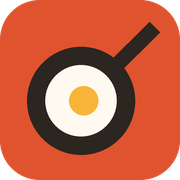
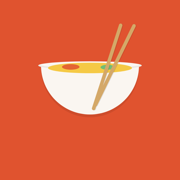
生成项目图标 + 右上角添加 GitHub 链接
图标：
- 用 HTML 设计碗+筷子+蒸汽的菜谱图标，Chrome headless 截图生成
- 替换 icon-512.png / icon-192.png / apple-touch-icon.png
- 保留 scripts/icon.html 作为图标源文件

GitHub 链接：
- 新增 components/GitHubLink.tsx 可复用组件
- 菜谱页、食材页、管理页 header 右上角均添加 GitHub 图标
- 点击跳转仓库 https://github.com/ymstar/personal_cookbook

diff --git a/scripts/icon.html b/scripts/icon.html
@@ -1,0 +1,136 @@
+<!DOCTYPE html>
+<html>
+<head>
+<meta charset="utf-8">
+<style>
+  * { margin: 0; padding: 0; box-sizing: border-box; }
+  html, body { width: 512px; height: 512px; overflow: hidden; }
+  body {
+    display: flex;
+    align-items: center;
+    justify-content: center;
+    background: #e0532f;
+  }
+  .icon {
+    width: 512px;
+    height: 512px;
+    position: relative;
+    display: flex;
+    align-items: center;
+    justify-content: center;
+  }
+  /* Bowl */
+  .bowl {
+    width: 280px;
+    height: 140px;
+    background: #faf6f1;
+    border-radius: 0 0 140px 140px;
+    position: relative;
+    z-index: 2;
+    box-shadow: 0 8px 0 rgba(0,0,0,0.08);
+  }
+  /* Bowl rim */
+  .bowl::before {
+    content: '';
+    position: absolute;
+    top: -12px;
+    left: -8px;
+    right: -8px;
+    height: 24px;
+    background: #faf6f1;
+    border-radius: 50%;
+    box-shadow: inset 0 -4px 0 rgba(0,0,0,0.06);
+  }
+  /* Food in bowl */
+  .food {
+    position: absolute;
+    top: -8px;
+    left: 50%;
+    transform: translateX(-50%);
+    width: 240px;
+    height: 30px;
+    background: #f5c945;
+    border-radius: 50%;
+    z-index: 3;
+  }
+  .food::before {
+    content: '';
+    position: absolute;
+    top: 4px;
+    left: 40px;
+    width: 50px;
+    height: 16px;
+    background: #e0532f;
+    border-radius: 50%;
+    opacity: 0.85;
+  }
+  .food::after {
+    content: '';
+    position: absolute;
+    top: 6px;
+    right: 50px;
+    width: 40px;
+    height: 14px;
+    background: #5cbb7e;
+    border-radius: 50%;
+    opacity: 0.85;
+  }
+  /* Chopsticks */
+  .chopstick-1 {
+    position: absolute;
+    width: 10px;
+    height: 260px;
+    background: #d4a868;
+    border-radius: 5px;
+    transform: rotate(18deg);
+    top: 60px;
+    left: 300px;
+    z-index: 4;
+    box-shadow: 2px 0 0 rgba(0,0,0,0.1);
+  }
+  .chopstick-2 {
+    position: absolute;
+    width: 10px;
+    height: 260px;
+    background: #d4a868;
+    border-radius: 5px;
+    transform: rotate(26deg);
+    top: 55px;
+    left: 322px;
+    z-index: 4;
+    box-shadow: 2px 0 0 rgba(0,0,0,0.1);
+  }
+  /* Steam */
+  .steam {
+    position: absolute;
+    bottom: 200px;
+    left: 50%;
+    transform: translateX(-50%);
+    z-index: 1;
+  }
+  .steam span {
+    display: inline-block;
+    width: 16px;
+    height: 16px;
+    background: rgba(255,255,255,0.35);
+    border-radius: 50%;
+    margin: 0 10px;
+    animation: rise 2s infinite ease-in-out;
+  }
+  .steam span:nth-child(2) { animation-delay: 0.3s; }
+  .steam span:nth-child(3) { animation-delay: 0.6s; }
+  @keyframes rise {
+    0%, 100% { transform: translateY(0); opacity: 0.35; }
+    50% { transform: translateY(-20px); opacity: 0.1; }
+  }
+</style>
+</head>
+<body>
+<div class="icon">
+  <div class="steam"><span></span><span></span><span></span></div>
+  <div class="bowl"><div class="food"></div></div>
+  <div class="chopstick-1"></div>
+  <div class="chopstick-2"></div>
+</div>
+</body>
+</html>

diff --git a/components/GitHubLink.tsx b/components/GitHubLink.tsx
@@ -1,0 +1,27 @@
+/** 右上角 GitHub 图标链接 */
+export function GitHubLink() {
+  return (
+    <a
+      href="https://github.com/ymstar/personal_cookbook"
+      target="_blank"
+      rel="noopener noreferrer"
+      aria-label="GitHub 仓库"
+      className="flex items-center justify-center rounded-lg transition-opacity hover:opacity-70"
+      style={{
+        width: "32px",
+        height: "32px",
+        color: "var(--muted)",
+      }}
+    >
+      <svg
+        width="20"
+        height="20"
+        viewBox="0 0 24 24"
+        fill="currentColor"
+        aria-hidden="true"
+      >
+        <path d="M12 2C6.477 2 2 6.484 2 12.017c0 4.425 2.865 8.18 6.839 9.504.5.092.682-.217.682-.483 0-.237-.008-.868-.013-1.703-2.782.605-3.369-1.343-3.369-1.343-.454-1.158-1.11-1.466-1.11-1.466-.908-.62.069-.608.069-.608 1.003.07 1.531 1.032 1.531 1.032.892 1.53 2.341 1.088 2.91.832.092-.647.35-1.088.636-1.338-2.22-.253-4.555-1.113-4.555-4.951 0-1.093.39-1.988 1.029-2.688-.103-.253-.446-1.272.098-2.65 0 0 .84-.27 2.75 1.026A9.564 9.564 0 0112 6.844c.85 0 1.705.115 2.504.337 1.909-1.296 2.747-1.026 2.747-1.026.546 1.379.202 2.398.1 2.651.64.7 1.028 1.595 1.028 2.688 0 3.848-2.339 4.695-4.566 4.943.359.309.678.92.678 1.855 0 1.338-.012 2.419-.012 2.747 0 .268.18.58.688.482A10.019 10.019 0 0022 12.017C22 6.484 17.522 2 12 2z" />
+      </svg>
+    </a>
+  );
+}

diff --git a/app/admin/layout.tsx b/app/admin/layout.tsx
@@ -1,6 +1,7 @@
 import { isAuthenticated } from "@/lib/auth";
 import { LoginForm } from "@/components/LoginForm";
 import { BottomNav } from "@/components/BottomNav";
+import { GitHubLink } from "@/components/GitHubLink";
 
 export const dynamic = "force-dynamic";
 
@@ -36,13 +37,16 @@ export default async function AdminLayout({
         <h1 className="text-lg font-bold" style={{ color: "var(--ink)" }}>
           ✏ 管理
         </h1>
-        <a
-          href="/admin/ingredients"
-          className="rounded-lg px-2.5 py-1 text-sm"
-          style={{ color: "var(--muted)" }}
-        >
-          食材管理
-        </a>
+        <div className="flex items-center gap-2">
+          <a
+            href="/admin/ingredients"
+            className="rounded-lg px-2.5 py-1 text-sm"
+            style={{ color: "var(--muted)" }}
+          >
+            食材管理
+          </a>
+          <GitHubLink />
+        </div>
       </header>
       <main
         className="mx-auto"

diff --git a/app/page.tsx b/app/page.tsx
@@ -2,6 +2,7 @@ import { getRecipes } from "@/lib/db";
 import type { Recipe } from "@/lib/types";
 import { RecipeList } from "@/components/RecipeList";
 import { BottomNav } from "@/components/BottomNav";
+import { GitHubLink } from "@/components/GitHubLink";
 
 export const dynamic = "force-dynamic";
 
@@ -29,6 +30,7 @@ export default async function HomePage() {
         <h1 className="text-lg font-bold" style={{ color: "var(--ink)" }}>
           🍳 小沙的个人菜谱
         </h1>
+        <GitHubLink />
       </header>
 
       <main

diff --git a/app/ingredients/page.tsx b/app/ingredients/page.tsx
@@ -1,6 +1,7 @@
 import { getIngredients } from "@/lib/db";
 import type { Ingredient } from "@/lib/types";
 import { BottomNav } from "@/components/BottomNav";
+import { GitHubLink } from "@/components/GitHubLink";
 
 export const dynamic = "force-dynamic";
 
@@ -35,6 +36,7 @@ export default async function IngredientsPage() {
         <h1 className="text-lg font-bold" style={{ color: "var(--ink)" }}>
           🧺 食材
         </h1>
+        <GitHubLink />
       </header>
 
       <main
